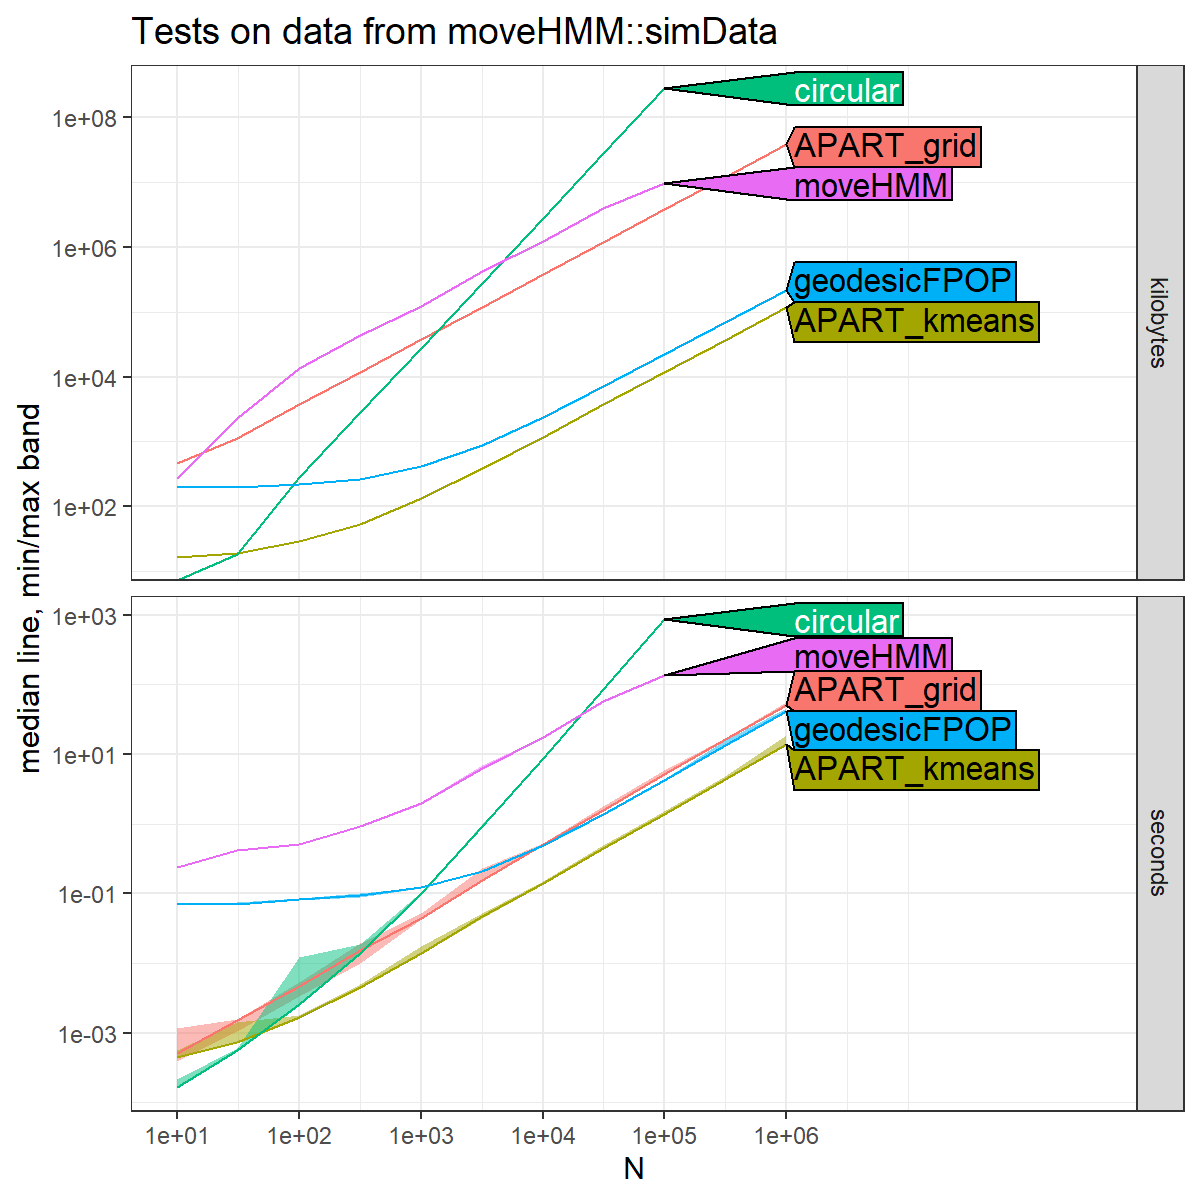
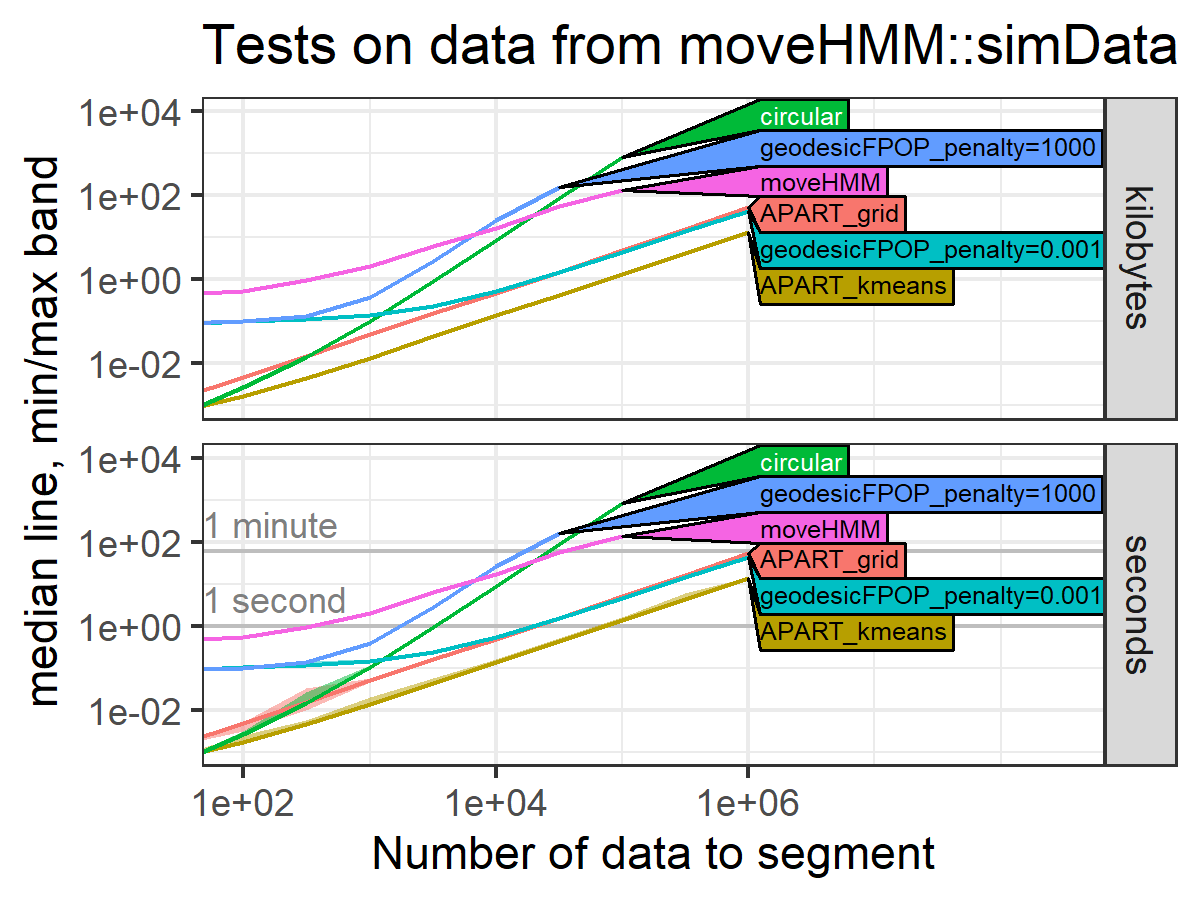
link to paper figures

Changed region(s): [[0.0, 0.0, 0.9867, 0.9956], [0.0308, 0.0933, 0.1542, 0.1556], [0.0617, 0.84, 0.0925, 0.8711]]

diff --git a/README.md b/README.md
@@ -1,6 +1,18 @@
+# Figures for paper
+
+* time complexity of angular changepoint
+  packages. [PNG](figure-compare-time-sim-nopred-nomem.png),
+  [code](figure-compare-time-sim-data.R).
+* time complexity of FPOP with different loss functions. [PNG](figure-geodesicFPOP-robseg-simple.png), [code](figure-geodesicFPOP-robseg.R).
+
+
+
+
 # 16 Apr 2024
 
 [figure-geodesicFPOP-robseg.R](figure-geodesicFPOP-robseg.R) makes
+
+![asymptotic two penalties several losses](figure-geodesicFPOP-robseg-simple.png)
 
 ![asymptotic two penalties several losses](figure-geodesicFPOP-robseg.png)
 
@@ -27,6 +39,8 @@
 ![real data timings](figure-compare-time.png)
 
 [figure-compare-time-sim-data.R](figure-compare-time-sim-data.R) makes
+
+![simulated data timings](figure-compare-time-sim-nopred-nomem.png)
 
 ![simulated data timings](figure-compare-time-sim.png)
 
